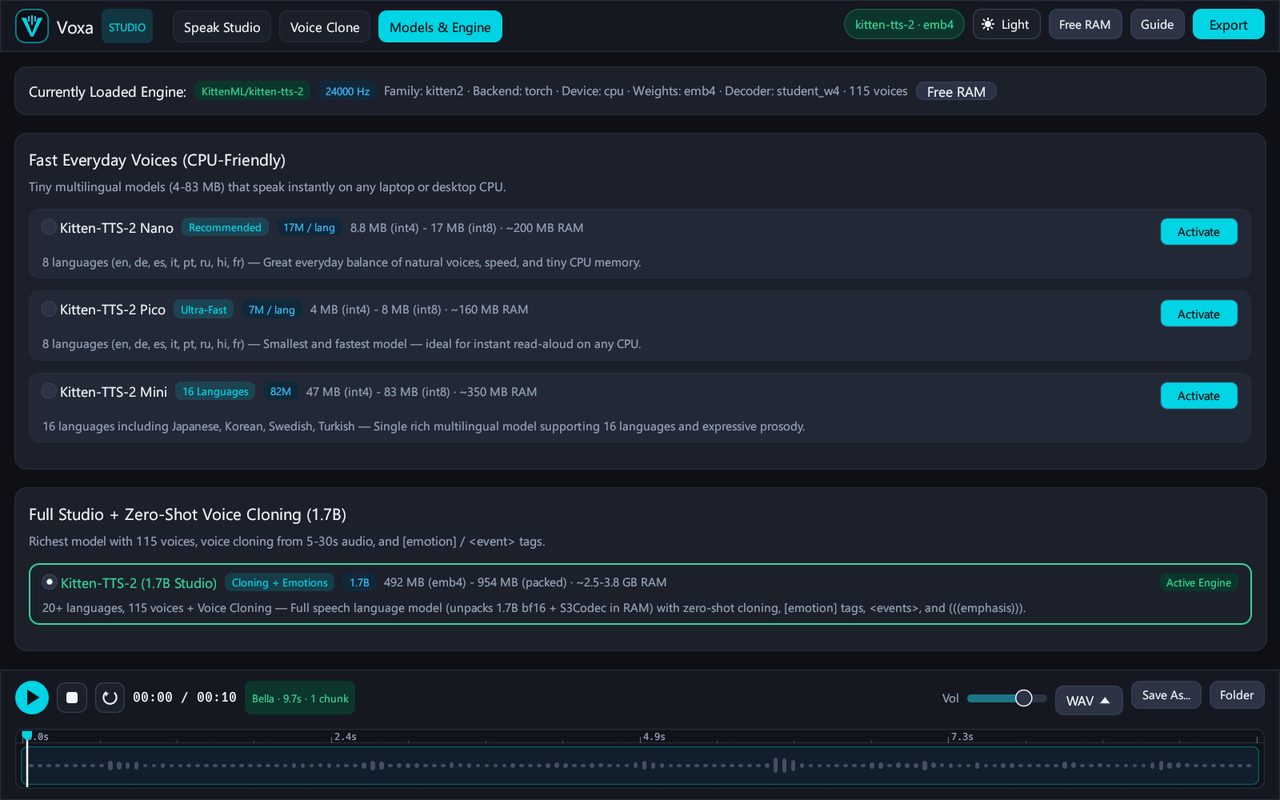
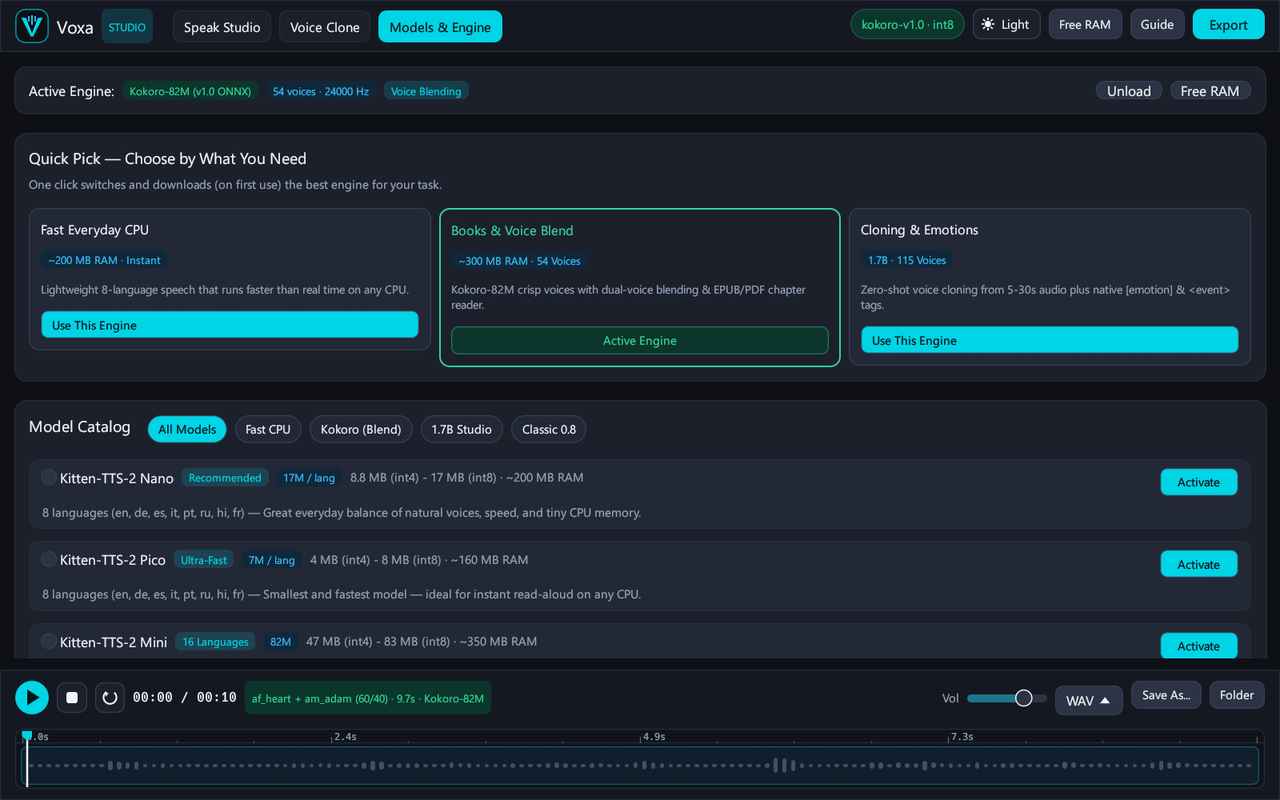
chore(release): v1.1.0 metadata, Kokoro-82M guide & refreshed UI screenshots

diff --git a/voxa-studio/src/setup.rs b/voxa-studio/src/setup.rs
@@ -295,7 +295,7 @@ fn register_windows_uninstaller(
         "$key = 'HKCU:\\Software\\Microsoft\\Windows\\CurrentVersion\\Uninstall\\VoxaStudio'; \
          New-Item -Path $key -Force | Out-Null; \
          Set-ItemProperty -Path $key -Name 'DisplayName' -Value 'Voxa Studio'; \
-         Set-ItemProperty -Path $key -Name 'DisplayVersion' -Value '1.0.0'; \
+         Set-ItemProperty -Path $key -Name 'DisplayVersion' -Value '1.1.0'; \
          Set-ItemProperty -Path $key -Name 'Publisher' -Value 'Voxa Studio Contributors'; \
          Set-ItemProperty -Path $key -Name 'DisplayIcon' -Value '{icon}'; \
          Set-ItemProperty -Path $key -Name 'InstallLocation' -Value '{dir}'; \
@@ -537,7 +537,7 @@ impl VoxaSetupApp {
             launch_after: true,
             stage: WizardStage::Configure,
             progress: 0.0,
-            status_line: "Ready to install Voxa Studio v1.0.0".to_string(),
+            status_line: "Ready to install Voxa Studio v1.1.0".to_string(),
             logs: Vec::new(),
             rx: None,
             auto_launched: false,
@@ -668,7 +668,7 @@ impl eframe::App for VoxaSetupApp {
                                 .inner_margin(egui::Margin::symmetric(7, 2))
                                 .show(ui, |ui| {
                                     ui.label(
-                                        RichText::new("SETUP · v1.0.0")
+                                        RichText::new("SETUP · v1.1.0")
                                             .size(11.0)
                                             .strong()
                                             .color(PRIMARY),
@@ -875,7 +875,7 @@ impl eframe::App for VoxaSetupApp {
                             WizardStage::Complete => (
                                 SUCCESS_SOFT,
                                 SUCCESS,
-                                "Voxa Studio v1.0.0 Installed Successfully".to_string(),
+                                "Voxa Studio v1.1.0 Installed Successfully".to_string(),
                             ),
                             WizardStage::Failed(err) => (
                                 DANGER_SOFT,
@@ -952,7 +952,7 @@ impl eframe::App for VoxaSetupApp {
 
 fn main() -> eframe::Result<()> {
     let mut viewport = egui::ViewportBuilder::default()
-        .with_title("Voxa Studio Setup — v1.0.0")
+        .with_title("Voxa Studio Setup — v1.1.0")
         .with_inner_size([680.0, 520.0])
         .with_min_inner_size([620.0, 480.0]);
     if let Some(icon) = load_setup_icon() {
